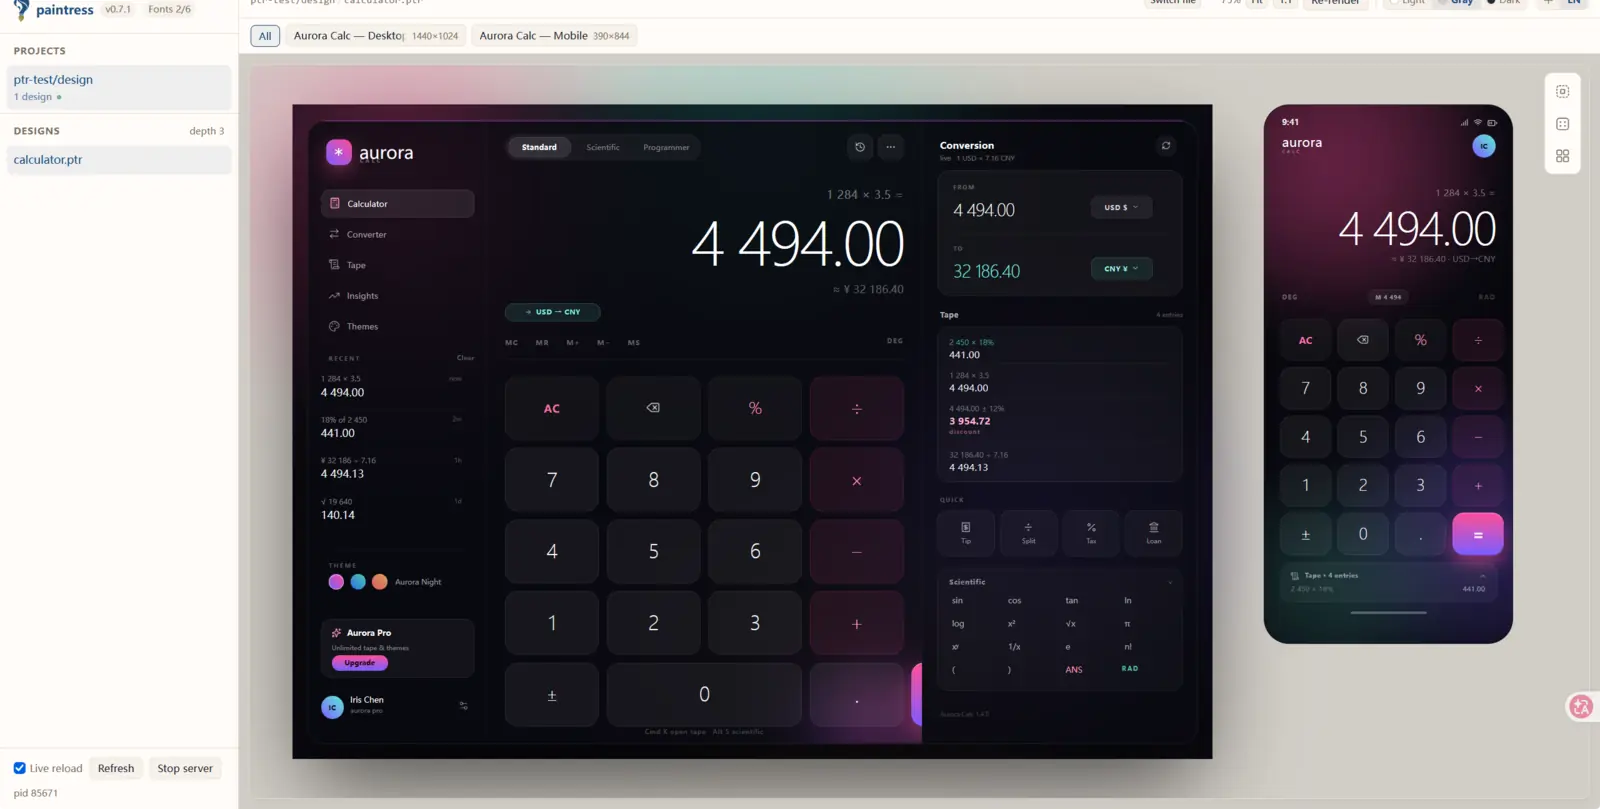
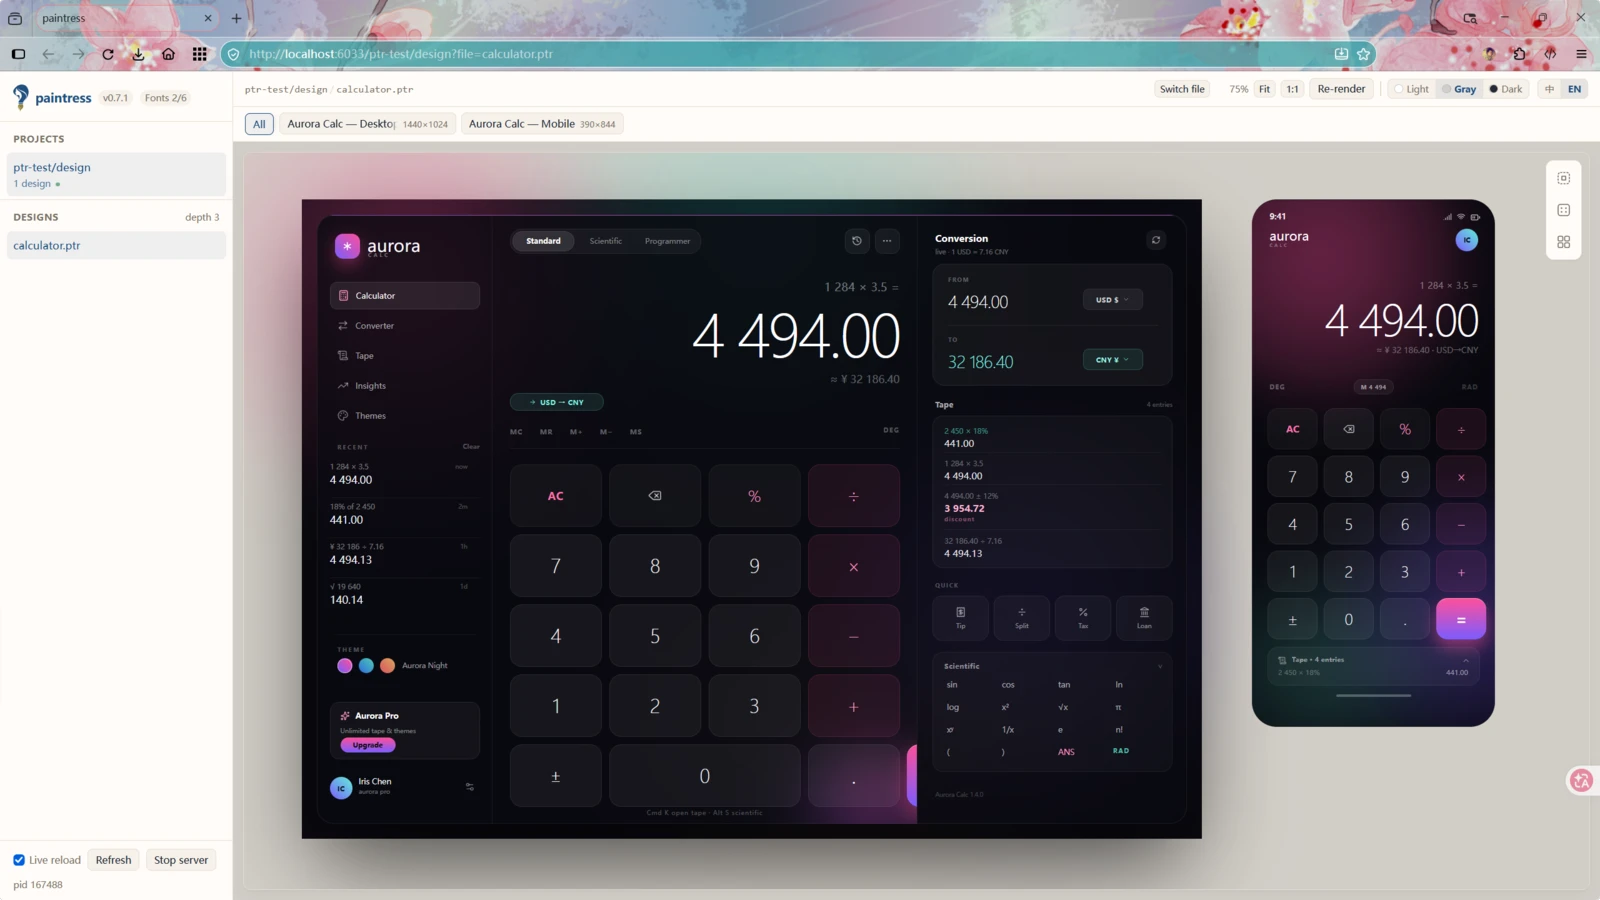
fix(web): never let a dead stderr pipe kill the daemon
The background daemon is spawned with its stderr piped to the CLI that
launched it; that CLI exits as soon as the daemon is ready, so every later
log write hit EPIPE. Without an 'error' listener on process.stderr the
unhandled stream error ends the process, which is why unbinding a project
(or any scaffold log line) could take the whole viewer down.

Route daemon logging through daemonLog(): swallow write failures, and append
to <runtimeDir>/web.log so a dead daemon leaves a trace behind.

Also swap the README demo for the operator's own capture (WebP, unprocessed).

diff --git a/test/daemon-log.spec.ts b/test/daemon-log.spec.ts
@@ -1,0 +1,146 @@
+import { spawn } from 'node:child_process';
+import { existsSync, mkdtempSync, readFileSync, rmSync, writeFileSync } from 'node:fs';
+import { createServer } from 'node:net';
+import { tmpdir } from 'node:os';
+import { join } from 'node:path';
+import { afterAll, beforeAll, describe, expect, it } from 'vitest';
+import { startDaemon, type DaemonHandle } from '../src/web/daemon.js';
+import { sendRequest } from '../src/web/client.js';
+
+/**
+ * daemon 的日志出口必须扛得住「stderr 已经断开」。
+ *
+ * 后台 daemon 由 CLI 用 `stdio: [ignore, ignore, pipe]` 拉起，读端就是那个 CLI 进程；
+ * 它退出之后，daemon 再写 stderr 会拿到 EPIPE。未处理的 error 事件会把常驻进程直接打死：
+ * 表现就是「在查看器里点一下解绑，整个 web 进程就没了」，而且没有日志文件，事后无从查证。
+ */
+
+/** stderr 上有兜底监听时，error 事件只是被吞掉；没有监听就是一次未捕获异常 */
+const emitStderrError = (): void => {
+  process.stderr.emit('error', new Error('EPIPE'));
+};
+
+describe('daemon 日志出口（进程内）', () => {
+  let home: string;
+  let daemon: DaemonHandle;
+
+  beforeAll(async () => {
+    home = mkdtempSync(join(tmpdir(), 'paintress-log-home-'));
+    process.env['PAINTRESS_HOME'] = home;
+    daemon = await startDaemon({ port: 0, idleTimeoutMs: 10 * 60_000, idleCheckMs: 5_000, quiet: true });
+  });
+
+  afterAll(async () => {
+    await daemon.close();
+    rmSync(home, { recursive: true, force: true });
+    delete process.env['PAINTRESS_HOME'];
+  });
+
+  it('启动 daemon 后 stderr 的 error 事件不会再抛到进程外', () => {
+    expect(() => emitStderrError()).not.toThrow();
+  });
+});
+
+const CLI = join(import.meta.dirname, '../dist/cli.js');
+const spawnDescribe = existsSync(CLI) ? describe : describe.skip;
+
+/** 拿一个当下空闲的端口（daemon 不认 `--port 0`：显式端口必须真的用上） */
+async function freePort(): Promise<number> {
+  return await new Promise<number>((resolve, reject) => {
+    const srv = createServer();
+    srv.once('error', reject);
+    srv.listen(0, '127.0.0.1', () => {
+      const addr = srv.address();
+      const port = typeof addr === 'object' && addr !== null ? addr.port : 0;
+      srv.close(() => (port > 0 ? resolve(port) : reject(new Error('拿不到空闲端口'))));
+    });
+  });
+}
+
+spawnDescribe('后台 daemon：父进程退出后 stderr 断开', () => {
+  let home: string;
+  let projectDir: string;
+  let child: ReturnType<typeof spawn> | undefined;
+  let exitNote: string | null = null;
+  let stderrText = '';
+
+  beforeAll(() => {
+    home = mkdtempSync(join(tmpdir(), 'paintress-log-spawn-'));
+    projectDir = mkdtempSync(join(tmpdir(), 'paintress-log-proj-'));
+    // sendRequest 走控制面 socket，它按这个环境变量找 socket
+    process.env['PAINTRESS_HOME'] = home;
+    writeFileSync(
+      join(projectDir, 'a.ptr'),
+      JSON.stringify({ version: '2.22', fileToken: '00000000-0000-4000-8000-0000000000aa', children: [] }),
+    );
+  });
+
+  afterAll(async () => {
+    try {
+      await sendRequest({ kind: 'shutdown' }, 2000);
+    } catch {
+      /* 已经退出 */
+    }
+    child?.kill('SIGKILL');
+    rmSync(home, { recursive: true, force: true });
+    rmSync(projectDir, { recursive: true, force: true });
+    delete process.env['PAINTRESS_HOME'];
+  });
+
+  it('后台 daemon：拉起它的进程退出后，写日志不再打死进程，且日志落进 web.log', async () => {
+    const port = await freePort();
+    // --idle 拉长：空仓 3s 自动关停是另一条合法路径，不能让它混进这条回归用例
+    child = spawn(process.execPath, [CLI, 'web', '--no-open', '--port', String(port), '--idle', '600000'], {
+      env: { ...process.env, PAINTRESS_HOME: home },
+      detached: true,
+      stdio: ['ignore', 'ignore', 'pipe'],
+    });
+    child.stderr?.on('data', (chunk: Buffer) => {
+      stderrText += chunk.toString('utf8');
+    });
+    child.once('exit', (code, signal) => {
+      exitNote = `exit code=${code} signal=${signal}`;
+    });
+
+    const ping = async (timeoutMs = 800): Promise<{ ok: boolean; pid?: number }> => {
+      try {
+        const res = await sendRequest({ kind: 'ping' }, timeoutMs);
+        return res.ok && 'pid' in res ? { ok: true, pid: res.pid } : { ok: false };
+      } catch {
+        return { ok: false };
+      }
+    };
+
+    // 等真正那个 daemon 就绪：`paintress web` 自己只是拉起器，拿到 pid 后立刻退
+    const deadline = Date.now() + 15_000;
+    let daemonPid: number | undefined;
+    while (Date.now() < deadline) {
+      const res = await ping();
+      if (res.ok) {
+        daemonPid = res.pid;
+        break;
+      }
+      await new Promise((r) => setTimeout(r, 100));
+    }
+    expect(daemonPid, `daemon 没起来（${exitNote ?? '无退出事件'}）${stderrText}`).toBeTypeOf('number');
+
+    // 拉起器退场 = daemon 的 stderr 读端消失（后台启动的常态）
+    const wrapperDeadline = Date.now() + 10_000;
+    while (exitNote === null && Date.now() < wrapperDeadline) await new Promise((r) => setTimeout(r, 50));
+    expect(exitNote, '拉起器应当自行退出').not.toBeNull();
+
+    // 这条请求会让 daemon 写一行日志（给项目建脚手架）——正是打死的触发路径
+    const watched = await sendRequest({ kind: 'watch', project: 'log-probe', dir: projectDir }, 8000);
+    expect(watched.ok).toBe(true);
+
+    await new Promise((r) => setTimeout(r, 500));
+    const after = await ping(2000);
+    expect(after.ok, `daemon 在写日志后没了（pid ${daemonPid}）`).toBe(true);
+    expect(after.pid).toBe(daemonPid); // 还是同一个进程，不是重拉起来的
+
+    // stderr 断了，日志文件里仍然可查
+    const log = join(home, 'web.log');
+    expect(existsSync(log)).toBe(true);
+    expect(readFileSync(log, 'utf8')).toContain('项目 log-probe 初始化');
+  }, 40_000);
+});

diff --git a/src/web/daemon.ts b/src/web/daemon.ts
@@ -2,7 +2,7 @@ import { createServer as createHttpServer, type IncomingMessage, type ServerResp
 import { VERSION } from '../shared/version.js';
 import { createServer as createNetServer, type Server as NetServer, type Socket } from 'node:net';
 import {
-  closeSync, existsSync, openSync, readFileSync, statSync, unlinkSync, writeFileSync,
+  appendFileSync, closeSync, existsSync, openSync, readFileSync, statSync, truncateSync, unlinkSync, writeFileSync,
 } from 'node:fs';
 import { readFile } from 'node:fs/promises';
 import { randomUUID } from 'node:crypto';
@@ -13,7 +13,7 @@ import { Registry, type ProjectEntry } from './registry.js';
 import { MarksStore } from './marks.js';
 import { ChangesStore } from './changes.js';
 import { LineDecoder, encodeLine, type ClientRequest, type ServerResponse } from './protocol.js';
-import { lockPath, pidPath, safeJoin, socketPath } from './paths.js';
+import { lockPath, pidPath, runtimeDir, safeJoin, socketPath } from './paths.js';
 import { guardProjectRoot } from './design-root.js';
 import { WatchManager } from './watcher.js';
 import { VersionChecker } from './update-check.js';
@@ -295,7 +295,41 @@ export class FontReportStore {
   }
 }
 
+/** 日志文件上限：超过就从头写，避免常驻 daemon 无限长大 */
+const LOG_FILE_MAX = 512 * 1024;
+
+/**
+ * daemon 的日志出口：stderr 可能是**已经断开的管道**。
+ *
+ * 后台 daemon 由 CLI 用 `stdio: [ignore, ignore, pipe]` 拉起，stderr 的读端就是那个 CLI 进程；
+ * 它一退出，daemon 再 `process.stderr.write()` 就会拿到 EPIPE —— 未处理的 'error'
+ * 会把常驻进程直接打死（解绑项目、建项目文件、绑定降级日志都会走到这里）。
+ * 所以一律经开这里：写 stderr 失败就吞掉，同时落一份 `web.log`，
+ * 进程真出事后还有现场可查（这次就是这样无从查证的）。
+ */
+function daemonLog(line: string): void {
+  const text = `paintress web: ${line}\n`;
+  try {
+    process.stderr.write(text);
+  } catch {
+    /* stderr 已断开：只当不可用，不能影响服务 */
+  }
+  try {
+    const file = join(runtimeDir(), 'web.log');
+    try {
+      if (statSync(file).size > LOG_FILE_MAX) truncateSync(file, 0);
+    } catch {
+      /* 文件还不存在 */
+    }
+    appendFileSync(file, `${new Date().toISOString()} ${text}`);
+  } catch {
+    /* 落盘是 best-effort：写不了日志不是服务错误 */
+  }
+}
+
 export async function startDaemon(opts: DaemonOptions = {}): Promise<DaemonHandle> {
+  // stderr 失效只该丢一行日志，不该结束进程。写管道是异步报错的，光 try/catch 盖不住。
+  if (process.stderr.listenerCount('error') === 0) process.stderr.on('error', () => {});
   const releaseLock = acquireLock();
   const registry = new Registry();
   const marks = new MarksStore();
@@ -399,7 +433,7 @@ export async function startDaemon(opts: DaemonOptions = {}): Promise<DaemonHandl
     if (!registry.all().some((p) => p.rootReal === entry.rootReal)) {
       watchers.unwatchDesigns(entry.rootReal);
     }
-    if (!opts.quiet) process.stderr.write(`paintress web: 解绑项目 ${entry.name}（${reason}）\n`);
+    if (!opts.quiet) daemonLog(`解绑项目 ${entry.name}（${reason}）`);
     notifyRegistry();
     return true;
   }
@@ -499,10 +533,10 @@ export async function startDaemon(opts: DaemonOptions = {}): Promise<DaemonHandl
                 try {
                   const created = ensureProjectScaffold(entry.rootReal).created;
                   if (created.length > 0 && !opts.quiet) {
-                    process.stderr.write(`paintress web: 项目 ${entry.name} 初始化 ${created.map((f) => relative(entry.rootReal, f)).join('、')}\n`);
+                    daemonLog(`项目 ${entry.name} 初始化 ${created.map((f) => relative(entry.rootReal, f)).join('、')}`);
                   }
                 } catch (cause) {
-                  process.stderr.write(`paintress web: 项目脚手架创建失败（${cause instanceof Error ? cause.message : String(cause)}）\n`);
+                  daemonLog(`项目脚手架创建失败（${cause instanceof Error ? cause.message : String(cause)}）`);
                 }
               }
               syncProjectRoots();
@@ -1281,7 +1315,7 @@ export async function startDaemon(opts: DaemonOptions = {}): Promise<DaemonHandl
       nonce: instanceNonce,
       ...(opts.port !== undefined ? { requestedPort: opts.port } : {}),
       ...(opts.bind !== undefined ? { bind: opts.bind } : {}),
-      ...(opts.quiet === true ? {} : { log: (line: string) => process.stderr.write(`paintress web: ${line}\n`) }),
+      ...(opts.quiet === true ? {} : { log: (line: string) => daemonLog(line) }),
     });
   } catch (cause) {
     // 起不来就不能把单实例锁留在地上：否则下一次启动会被「已在运行」挡住
@@ -1368,7 +1402,7 @@ export async function startDaemon(opts: DaemonOptions = {}): Promise<DaemonHandl
     if (closingPromise !== null) return closingPromise;
     closing = true;
     closingPromise = (async () => {
-      if (!opts.quiet) process.stderr.write(`paintress web: 退出（${reason}）\n`);
+      if (!opts.quiet) daemonLog(`退出（${reason}）`);
       clearInterval(idleTimer);
       if (registryTimer !== null) clearTimeout(registryTimer);
       for (const timer of autoDetachTimers.values()) clearTimeout(timer);
